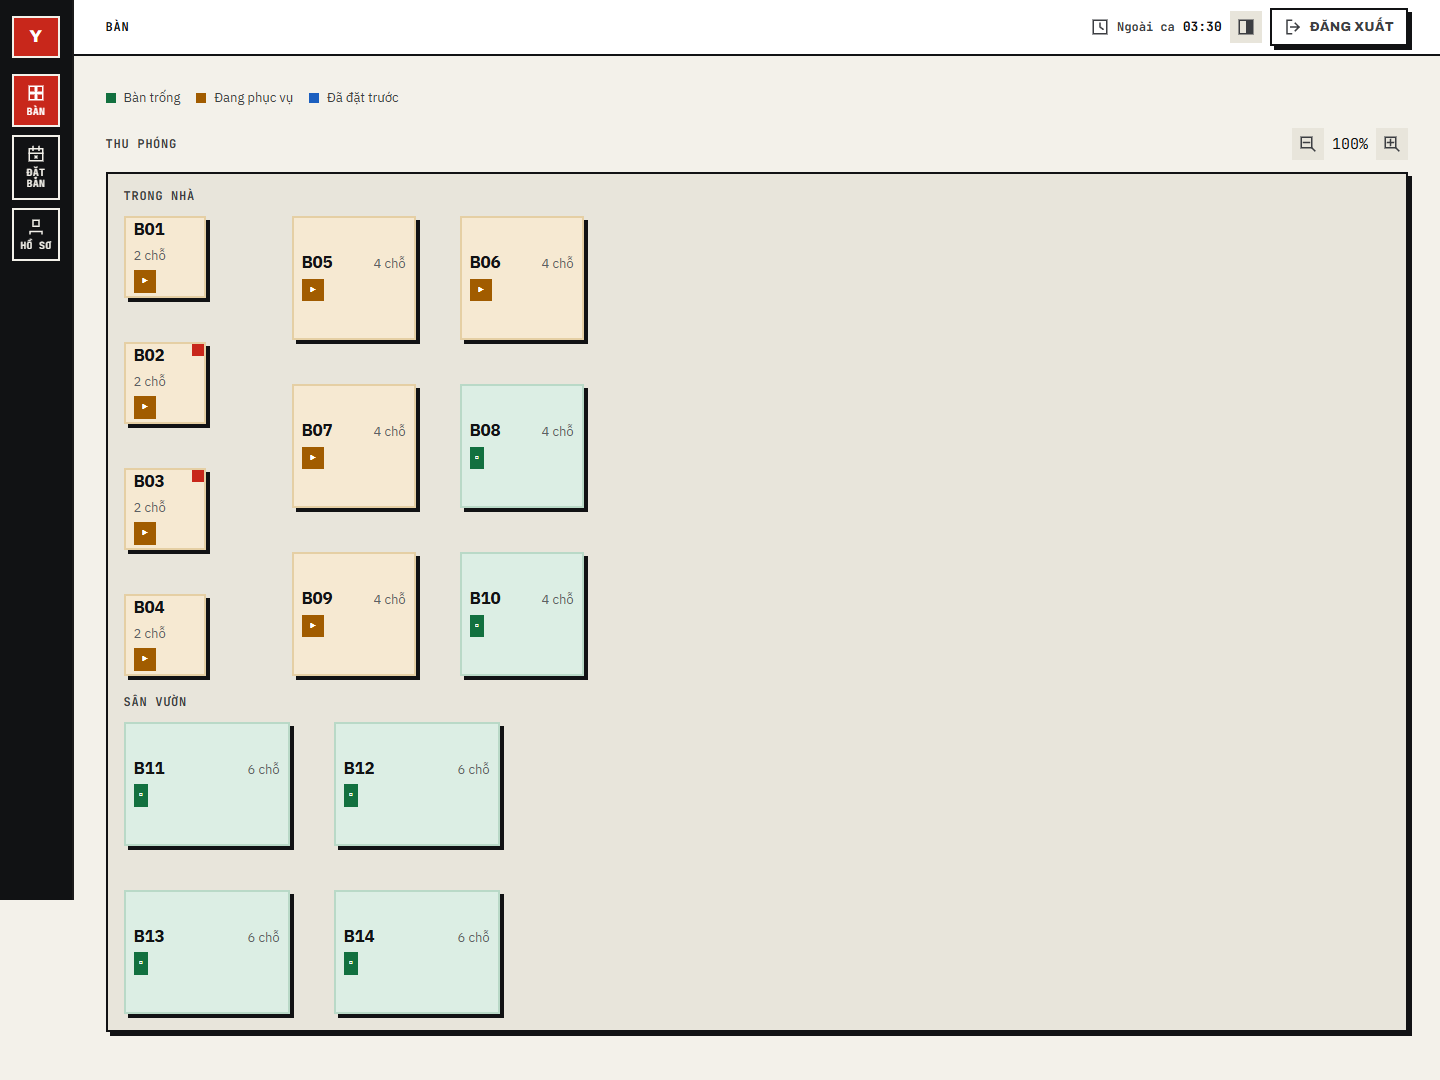
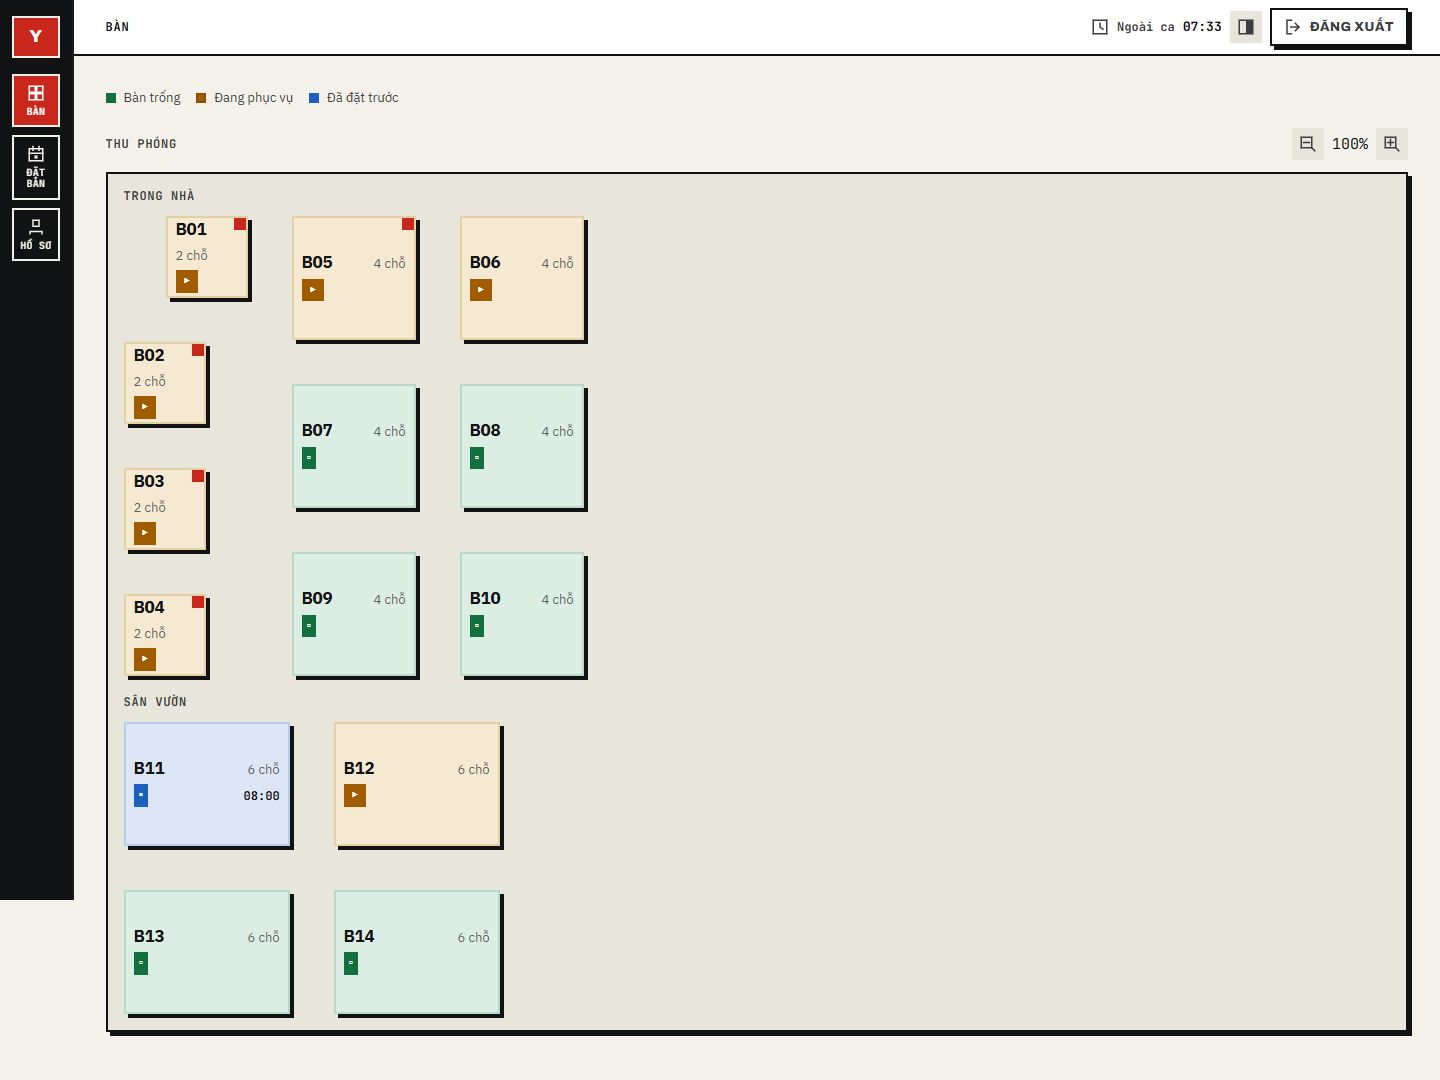
fix: ô bàn đặt trước trên sơ đồ cho biết giờ khách đến
Đã đi trọn luồng khách đến trên app thật (lượt 08:00, bộ lập lịch chuyển
bàn sang Đã đặt trước lúc 07:30): thẻ bàn → chi tiết lượt đặt → Bắt đầu gọi
món → gửi → bàn sang Đang phục vụ, lượt đặt hoàn tất. Luồng chạy đúng; hai
chỗ trình bày còn thiếu:

- Ô bàn đặt trước trên sơ đồ giấu hẳn giờ đặt — mà với phục vụ, "bàn này giữ
  cho khách lúc mấy giờ" là điều quan trọng nhất của một bàn đặt trước. Câu
  "Đã đặt lúc 08:00" không vừa ô nhỏ, nên trên sơ đồ hiện riêng con số giờ;
  câu đầy đủ vẫn nằm trong cây trợ năng.
- Chi tiết lượt đặt in ngày kiểu máy "2026-09-28 — 08:00"; nay "08:00 ·
  28/09/2026" như cả app.

Changed region(s): [[0.1875, 0.3361, 0.375, 0.7944], [0.0938, 0.1833, 0.1875, 0.3056], [0.0938, 0.7333, 0.125, 0.7639]]

diff --git a/frontend/src/styles/rims-kit.css b/frontend/src/styles/rims-kit.css
@@ -4078,9 +4078,35 @@ html {
     }
 }
 
-.rk-floor__slot > .rk-tablecard .rk-tablecard__hint,
 .rk-floor__slot > .rk-tablecard .rk-tablecard__amount {
     display: none;
+}
+
+/* Giờ khách đặt: thẻ danh sách đã có câu "Đã đặt lúc 08:00", nên con số riêng
+   chỉ hiện trên SƠ ĐỒ — nơi câu đó không vừa. Với phục vụ, "bàn này giữ cho
+   khách lúc mấy giờ" là điều quan trọng nhất của một bàn đặt trước; bản trước
+   giấu hẳn nó khỏi sơ đồ. */
+.rk-tablecard__time {
+    display: none;
+}
+
+.rk-floor__slot > .rk-tablecard .rk-tablecard__time {
+    display: inline-block;
+    font-family: var(--rims-font-mono);
+    font-size: var(--rims-text-xs);
+    font-weight: var(--rims-weight-bold);
+    font-variant-numeric: tabular-nums;
+    white-space: nowrap;
+}
+
+/* Câu đầy đủ: ẩn khỏi MẮT, không khỏi trình đọc màn hình. */
+.rk-floor__slot > .rk-tablecard .rk-tablecard__hint {
+    position: absolute;
+    width: 1px;
+    height: 1px;
+    overflow: hidden;
+    clip-path: inset(50%);
+    white-space: nowrap;
 }
 
 /* Dòng "Có cập nhật món" thu lại thành một VUÔNG ĐỎ ở góc. Chữ thì không vừa,

diff --git a/frontend/src/shared/components/ui/TableCard.tsx b/frontend/src/shared/components/ui/TableCard.tsx
@@ -87,6 +87,15 @@ export function TableCard({
                 {amount != null && amount > 0 && (
                     <span className="rk-tablecard__amount">{formatAmount(amount)}</span>
                 )}
+
+                {/* Chỉ CON SỐ giờ, cho ô bàn trên sơ đồ — câu "Đã đặt lúc 08:00"
+                    không vừa ô nhỏ. aria-hidden: câu đầy đủ bên dưới vẫn nằm
+                    trong cây trợ năng, đọc hai lần là thừa. */}
+                {upcomingTime && (
+                    <span className="rk-tablecard__time" aria-hidden="true">
+                        {upcomingTime}
+                    </span>
+                )}
             </span>
 
             {upcomingTime && (

diff --git a/frontend/src/features/waiter/WaiterReservationDetailPage.tsx b/frontend/src/features/waiter/WaiterReservationDetailPage.tsx
@@ -218,8 +218,10 @@ export default function WaiterReservationDetailPage() {
 
                         <div className="rk-detailrow">
                             <span className="rk-detailrow__label">Thời gian</span>
+                            {/* Giờ trước, ngày dd/mm/yyyy như cả app — bản trước in
+                                ngày kiểu máy "2026-09-28". */}
                             <strong className="rk-detailrow__value">
-                                {date} — {time}
+                                {time} · {date.split('-').reverse().join('/')}
                             </strong>
                         </div>
 
